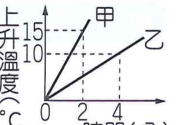
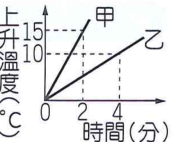
dfa

diff --git a/nature.html b/nature.html
@@ -1,0 +1,118 @@
+<!DOCTYPE html>
+<html lang="zh-Hant">
+<head>
+<meta charset="UTF-8">
+<meta name="viewport" content="width=device-width, initial-scale=1.0">
+<title>國中題庫｜自然科總目錄</title>
+<link rel="preconnect" href="https://fonts.googleapis.com">
+<link href="https://fonts.googleapis.com/css2?family=Noto+Serif+TC:wght@500;700&family=Noto+Sans+TC:wght@400;500;700&display=swap" rel="stylesheet">
+<style>
+  :root{
+    --paper:#faf6ec; --ink:#26332b; --ink-soft:#5b6b5f;
+    --chalk-green:#2f4538; --gold:#b5842a; --paper-line:#e3dcc8;
+  }
+  *{box-sizing:border-box;}
+  body{margin:0;background:var(--paper);color:var(--ink);font-family:"Noto Sans TC",sans-serif;line-height:1.7;}
+  header{background:var(--chalk-green);color:#eef2ea;padding:30px 20px 42px;position:relative;}
+  header::after{content:"";position:absolute;left:0;right:0;bottom:-1px;height:14px;
+    background:repeating-linear-gradient(90deg,var(--paper) 0 18px, transparent 18px 20px);}
+  .inner{max-width:860px;margin:0 auto;}
+  .breadcrumb a{color:#cfe0d1;text-decoration:none;font-size:14px;}
+  h1{font-family:"Noto Serif TC",serif;font-size:clamp(24px,4vw,32px);margin:10px 0 6px;}
+  .sub{color:#cfe0d1;font-size:15px;margin:0;}
+  main{max-width:860px;margin:0 auto;padding:28px 20px 70px;}
+  .section-title{
+    font-family:"Noto Serif TC",serif;font-weight:700;font-size:18px;color:var(--chalk-green);
+    margin:32px 0 12px;padding-bottom:6px;border-bottom:1px solid var(--paper-line);
+  }
+  .section-title:first-of-type{margin-top:0;}
+  .grid{display:grid;grid-template-columns:repeat(3,1fr);gap:12px;}
+  @media (max-width:640px){.grid{grid-template-columns:1fr;}}
+  .card{
+    display:block;background:#fff;border:1px solid var(--paper-line);border-radius:10px;
+    padding:16px 18px;text-decoration:none;color:var(--ink);transition:transform .15s,border-color .15s;
+  }
+  a.card:hover{transform:translateY(-2px);border-color:var(--gold);}
+  .card .name{font-family:"Noto Serif TC",serif;font-weight:700;font-size:16px;margin:0 0 4px;}
+  .card .desc{font-size:12.5px;color:var(--ink-soft);margin:0;}
+  .card.disabled{opacity:.5;cursor:default;}
+  .badge{
+    display:inline-block;font-family:"Noto Sans TC",sans-serif;font-size:11px;font-weight:700;
+    padding:2px 9px;border-radius:999px;margin-top:8px;
+  }
+  .badge.ready{background:rgba(181,132,42,0.15);color:var(--gold);}
+  .badge.soon{background:rgba(91,107,95,0.12);color:var(--ink-soft);}
+  .footer-link{display:block;text-align:center;margin-top:34px;color:var(--chalk-green);text-decoration:none;font-weight:700;font-size:14px;}
+  .footer-link:hover{text-decoration:underline;}
+</style>
+</head>
+<body>
+<header>
+  <div class="inner">
+    <div class="breadcrumb"><a href="https://jenlin2002.github.io/">🏠 回總目錄</a> ／ <a href="index.html" style="color:#cfe0d1;">國中題庫</a></div>
+    <h1>自然科</h1>
+    <p class="sub">依年級、學期、版本分類，點卡片進入該冊的段考練習卷</p>
+  </div>
+</header>
+<main>
+  <div id="bookGrid"></div>
+  <script>
+    const BOOKS = [
+      {grade:"國中一上", items:[
+        {pub:"康軒", href:null},
+        {pub:"翰林", href:"hanlin-nature-g7-1.html"},
+        {pub:"南一", href:null}
+      ]},
+      {grade:"國中一下", items:[
+        {pub:"康軒", href:null},
+        {pub:"翰林", href:null},
+        {pub:"南一", href:null}
+      ]},
+      {grade:"國中二上", items:[
+        {pub:"康軒", href:null},
+        {pub:"翰林", href:"hanlin-nature-g8-1.html"},
+        {pub:"南一", href:null}
+      ]},
+      {grade:"國中二下", items:[
+        {pub:"康軒", href:null},
+        {pub:"翰林", href:null},
+        {pub:"南一", href:null}
+      ]},
+      {grade:"國中三上", items:[
+        {pub:"康軒", href:null},
+        {pub:"翰林", href:null},
+        {pub:"南一", href:null}
+      ]},
+      {grade:"國中三下", items:[
+        {pub:"康軒", href:null},
+        {pub:"翰林", href:null},
+        {pub:"南一", href:null}
+      ]}
+    ];
+    const container = document.getElementById("bookGrid");
+    BOOKS.forEach(section=>{
+      const title = document.createElement("div");
+      title.className = "section-title";
+      title.textContent = section.grade;
+      container.appendChild(title);
+
+      const grid = document.createElement("div");
+      grid.className = "grid";
+      section.items.forEach(it=>{
+        const ready = !!it.href;
+        const el = document.createElement(ready ? "a" : "div");
+        el.className = "card" + (ready ? "" : " disabled");
+        if(ready) el.href = it.href;
+        el.innerHTML = `
+          <p class="name">${section.grade}・${it.pub}</p>
+          <p class="desc">${it.pub}版自然段考題庫</p>
+          <span class="badge ${ready ? "ready" : "soon"}">${ready ? "已上線" : "即將推出"}</span>`;
+        grid.appendChild(el);
+      });
+      container.appendChild(grid);
+    });
+  </script>
+  <a class="footer-link" href="index.html">← 回國中題庫總目錄</a>
+</main>
+</body>
+</html>

diff --git a/index.html b/index.html
@@ -60,7 +60,7 @@
       {icon:"🔢", name:"數學", href:"math.html"},
       {icon:"📖", name:"國文", href:"chinese.html"},
       {icon:"🌍", name:"社會", href:"social.html"},
-      {icon:"🔬", name:"自然", href:null}
+      {icon:"🔬", name:"自然", href:"nature.html"}
     ];
     const grid = document.getElementById("subjectGrid");
     SUBJECTS.forEach(s=>{

diff --git a/tools/hanlin-g8-1-build/natdata/t10.py b/tools/hanlin-g8-1-build/natdata/t10.py
@@ -4,8 +4,8 @@ CROPS = [
   ("q1", 19, "LT", (590, 295, 775, 470)), ("q2", 19, "LT", (665, 630, 775, 810)), ("q4", 19, "LB", (655, 195, 770, 350)),
   ("q8", 19, "LB", (465, 908, 770, 1020)), ("q18", 19, "RB", (535, 900, 740, 1075)),
   ("s5", 20, "LB", (520, 215, 775, 395)),
-  ("b1", 20, "LB", (435, 830, 770, 965)), ("b2", 20, "RT", (590, 75, 745, 185)), ("b5", 20, "RT", (350, 675, 740, 855)),
-  ("b6", 20, "RT", (465, 1015, 740, 1130)), ("g79", 20, "RB", (45, 325, 720, 510)),
+  ("b1", 20, "LB", (435, 830, 770, 965)), ("b2", 20, "RT", (590, 75, 745, 200)), ("b5", 20, "RT", (350, 675, 740, 855)),
+  ("b6", 20, "RT", (465, 1015, 740, 1148)), ("g79", 20, "RB", (45, 325, 720, 510)),
   ("b7", 20, "RB", (45, 580, 740, 715)), ("b8", 20, "RB", (45, 795, 740, 915)), ("b9", 20, "RB", (45, 995, 740, 1115)),
 ]
 SECTIONS = exam(10,
